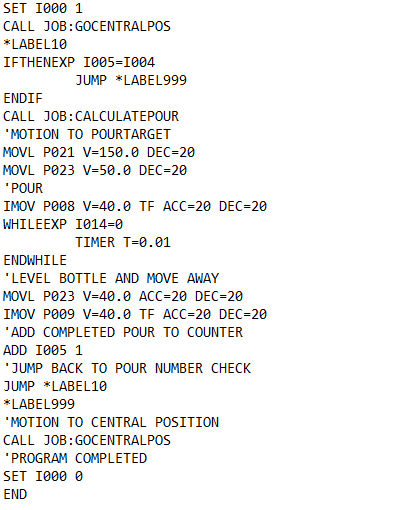
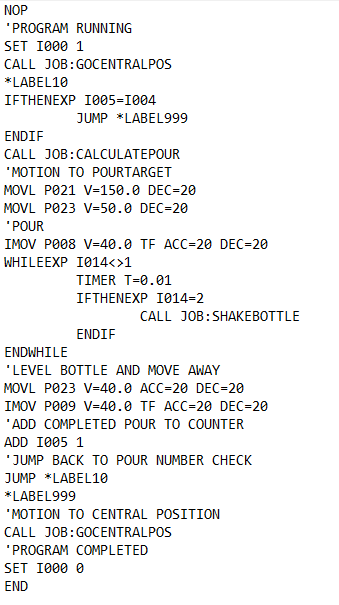
Muutettu backend ja raspikertomukset. Yritetty saada koodeja listingsillä ja verbatimilla. Shakebottlesta kirjoitettu ja kaatokuvaajat kunnossa.

Changed region(s): [[0.0, 0.0, 0.885, 1.0]]

diff --git a/tex/drinkkirobotti_5.0.tex b/tex/drinkkirobotti_5.0.tex
@@ -1,4 +1,4 @@
-Drinkkirobotti 5.0 on Pullonkaula ry:n, eli Tampereen yliopistossa toimivan tuotantotekniikan ammattiainekerhon opiskelijoiden vapaa-ajalla tekemä projekti. Robottisolu koostuu Yaskawan HC-10-monitoimirobotin "You Teach Me"\hyp{}solusta ja sen ympärille rakennetuista baaritiskeistä. You Teach Me on Yaskawan valmiiksi valmisteltu opetuskäyttöön tarkoitettu robottisolukokonaisuus \cite{Yaskawa2017}. Baaritiskeissä on sisäpuolella pullohyllyt, ja kun robotilta tilataan juomaa, se hakee oikeat pullot hyllystä ja valmistaa niistä monikomponenttijuomia kaatamalla juomaa lasiin. Baaritiskillä on neljä paikkaa lasille. Robotilta juomien tilaaminen tapahtuu tabletille tehdyn käyttöliittymän avulla. Yaskawan HC-10 on yhteistyörobotti, eli se sisältää voima-antureita ja näiden avulla ihmisen ja robotin välinen yhteistyö on helpottunut. \cite{Pullonkaula2020}
+Drinkkirobotti 5.0 on Pullonkaula ry:n, eli Tampereen yliopistossa toimivan tuotantotekniikan ammattiainekerhon opiskelijoiden vapaa-ajalla tekemä projekti. Robottisolu koostuu Yaskawan HC-10-monitoimirobotin "You Teach Me"\hyp{}solusta, ja sen ympärille rakennetuista baaritiskeistä. Drinkkirobottisolu näkyy kuvassa \ref{fig:drinkkirobotti}. You Teach Me on Yaskawan valmiiksi valmisteltu opetuskäyttöön tarkoitettu robottisolukokonaisuus \cite{Yaskawa2017}. Robottisolun  Baaritiskeissä on sisäpuolella pullohyllyt, ja kun robotilta tilataan juomaa, se hakee oikeat pullot hyllystä ja valmistaa niistä monikomponenttijuomia kaatamalla juomaa lasiin. Baaritiskin päällä on neljä mukipaikkaa, joihin robotti voi kaataa juomia.
 
 \begin{figure}[h]
 \begin{center}
@@ -8,11 +8,9 @@ Drinkkirobotti 5.0 on Pullonkaula ry:n, eli Tampereen yliopistossa toimivan tuot
 \label{fig:drinkkirobotti}
 \end{figure}
 
-Drinkkirobotin ohjelmisto koostuu useasta tasosta. Front end sisältää React.js:llä tehdyt käyttöliittymät operaattoria ja asiakasta varten. Operaattorinäkymästä voi esimerkiksi hallita robottisolun pullohyllyssä olevia pulloja lisäämällä tai poistamalla niitä ja valita robotin idle\hyp{}tilassa tekemiä liikkeitä. Asiakasnäkymästä voi selata tarjolla olevia juomia ja niiden sisältämiä komponentteja ja tilata juomia kerrallaan 1\hyp{}4 kappaletta. Back end toimii Node.js:llä ja se sisältää tiedon tarjolla olevista juomista ja niiden komponenteista sekä määristä. Siellä on myös reaaliaikainen tieto pullohyllyn tilanteesta, eli mitä pulloja hyllyssä on ja kuinka paljon juomaa missäkin pullossa on jäljellä. Kun operaattori lisää pullon, hän arvioi pullossa olevan juoman määrän ja merkitsee sen käyttöliittymään, joilloin juomamäärä välitetään back endille. Kun pullosta kaadetaan juomaa, back endiin päivittyy uusi tieto pullossa olevasta juomasta. Jos pullossa on liian vähän juomaa jäljellä minkään drinkin tekoon, robotti poistaa pullon hyllystä automaattisesti.
+\newpage
 
-Itse robottikoodi on suhteellisen yksinkertaista. Siinä käytetään Yaskawan Inform \hyp{}ohjelmointikieltä, ja robottia ohjaa Yaskawan YRC-1000 -ohjausyksikkö. Robottikoodi sisältää "jobeja", jotka sisältävät robotin liikeratoja ja niiden parametrien määrittelyjä ja joissakin väleissä lyhyitä odotusaikoja. Robottisolun aivoina voidaan pitää sen bisneslogiikkatasoa. C\# -kielellä kirjoitettua logiikkaa pyörittää robottisolun sisällä oleva Rasperry Pi -tietokone. Logiikka ohjaa robottia kertomalla, mikä funktio, eli "job" milloinkin suoritetaan. Se siis käsittelee front endiltä saadut tilaukset ja päättää esimerkiksi mikä pullo haetaan ja mihin lasiin juomaa kaadetaan. Rasperry Pi ohjaa logiikan lisäksi robotin tarttujaa. Tarttujaa voidaan ohjata robottikoodista siihen tarkoitetuilla jobeilla, jolloin robottikoodi kutsuu Rasperry Pi:tä.
-
-Uusimpana lisäyksenä robottisoluun on implementoitu vaaka, joka on niin sanotulla pullonvaihtopisteellä. Vaa'an toiminta on hyvä esimerkki robotti-bisneslogiikkarajapinnasta, sillä vaa'an voi kalibroida ja sen kullakin hetkellä näyttämää arvoa voi kysyä logiikan avulla. Tämän vaa'an avulla robotti tunnistaa, onko pullonvaihtopisteellä pulloa. Tätä käytetään esimerkiksi uuden pullon lisäämisessä: Kun robotti hakee uutta pulloa hyllyyn, niin se pysähtyy ensin pullonvaihtopisteen eteen. Jos vaaka kertoo, että pullonvaihtopiste on tyhjä, logiikka ei käske robottia hakemaan olematonta pulloa, vaan käskee sen odottamaan tietyn ajan. Robotti hakee pullon vasta, kun se lisätään pullonvaihtopisteelle. Tämän toiminnallisuuden avulla robotti ei siis vie olematonta pulloa hyllyyn, jolloin back endissä olisi tieto pullosta tietyllä kohdalla pullohyllyä, vaikka pulloa ei oikeasti ole. Samoin, jos robotti on poistamassa pulloa pullohyllystä, ei se vie sitä pullonvaihtopisteelle jos siellä on jo pullo. Näin robotti ei työnnä vanhaa pulloa vaihtopisteeltä alas, vaan odottaa että se poistetaan sieltä. Työn alla on myös ominaisuus, jossa logiikka kertoo back endille, miten paljon juomaa lisätyssä pullossa on, ja operaattorin tehtäväksi jää vain tarkistaa lukema, eikä itse arvioida lisättävässä pullossa olevaa juoman määrää.
+Robotilta juomien tilaaminen tapahtuu tabletille tehdyn käyttöliittymän avulla. Yaskawan HC-10 on yhteistyörobotti, eli se sisältää voima-antureita ja näiden avulla ihmisen ja robotin välinen yhteistyö on helpottunut. \cite{Pullonkaula2020}
 
 \begin{figure}[h]
 \begin{center}
@@ -22,4 +20,8 @@ Uusimpana lisäyksenä robottisoluun on implementoitu vaaka, joka on niin sanotu
 \label{fig:rakenne}
 \end{figure}
 
-Vaaka koostuu HX711-mittakortista ja siihen kytketystä 5kg painoanturista, ja näitä ohjaa arduino-kirjastoja apuna käyttäen ohjelmoitu NodeMCU V3. Kommunikaatio logiikkaan toimii wlan-yhteydellä lähetettävillä UDP-paketeilla. Vaakaa pystyy siis siirtämään, ja niinpä tätä samaa vaakaa käytetään juomankaatosysteemin takaisinkytkentään, josta kerrotaan kappaleessa 3.
+Drinkkirobotin ohjelmisto koostuu neljästä tasosta. Ohjelmistorakennetta on havainnollistettu kuvassa \ref{fig:rakenne}. Front end sisältää React.js:llä tehdyt käyttöliittymät operaattoria ja asiakasta varten. Operaattorinäkymästä voi esimerkiksi hallita robottisolun pullohyllyssä olevia pulloja lisäämällä tai poistamalla niitä ja valita robotin idle\hyp{}tilassa tekemiä liikkeitä. Asiakasnäkymästä voi selata tarjolla olevia juomia ja niiden sisältämiä komponentteja ja tilata juomia kerrallaan 1\hyp{}4 kappaletta. Back end toimii Node.js:llä ja se sisältää tiedon meneillään olevasta tapahtumasta missä juomia tarjoillaan ja siinä tapahtumassa tarjolla olevista juomista ja niiden komponenteista sekä määristä.
+
+Itse robottikoodi on suhteellisen yksinkertaista. Siinä käytetään Yaskawan Inform \hyp{}ohjelmointikieltä, ja robottia ohjaa Yaskawan YRC-1000 -ohjausyksikkö. Robottikoodi sisältää "jobeja", jotka sisältävät robotin liikeratoja ja niiden parametrien määrittelyjä ja joissakin väleissä lyhyitä odotusaikoja. Robottisolun aivoina voidaan pitää sen bisneslogiikkatasoa, joka on kirjoitettu C\#-kielellä. Logiikka ohjaa robottia kertomalla, mikä funktio, eli "job" milloinkin suoritetaan. Se siis käsittelee front endiltä saadut tilaukset ja päättää esimerkiksi mikä pullo haetaan ja mihin lasiin juomaa kaadetaan. Logiikassa on myös reaaliaikainen tieto pullohyllyn tilanteesta, eli mitä pulloja hyllyssä on ja kuinka paljon juomaa missäkin pullossa on jäljellä. Kun operaattori lisää pullon, hän arvioi pullossa olevan juoman määrän ja merkitsee sen käyttöliittymään, jolloin juomamäärä välitetään logiikkaan. Kun pullosta kaadetaan juomaa, päivittyy uusi tieto pullossa olevasta juomasta. Jos pullossa on liian vähän juomaa jäljellä minkään drinkin tekoon, robotti poistaa pullon hyllystä automaattisesti. Näiden lisäksi robotin sisällä on Rasperry Pi-tietokone, joka ohjaa robotin tarttujaa. Tarttujaa voidaan ohjata robottikoodista siihen tarkoitetuilla jobeilla, jolloin robottikoodi kutsuu Rasperry Pi:tä.
+
+Uusimpana lisäyksenä robottisoluun on implementoitu vaaka, joka on niin sanotulla pullonvaihtopisteellä. Vaa'an toiminta on hyvä esimerkki robotti-bisneslogiikkarajapinnasta, sillä vaa'an voi kalibroida ja sen kullakin hetkellä näyttämää arvoa voi kysyä logiikan avulla. Tämän vaa'an avulla robotti tunnistaa, onko pullonvaihtopisteellä pulloa. Tätä käytetään esimerkiksi uuden pullon lisäämisessä: Kun robotti hakee uutta pulloa hyllyyn, niin se pysähtyy ensin pullonvaihtopisteen eteen. Jos vaaka kertoo, että pullonvaihtopiste on tyhjä, logiikka ei käske robottia hakemaan olematonta pulloa, vaan käskee sen odottamaan tietyn ajan. Robotti hakee pullon vasta, kun se lisätään pullonvaihtopisteelle. Tämän toiminnallisuuden avulla robotti ei siis vie olematonta pulloa hyllyyn, jolloin back endissä olisi tieto pullosta tietyllä kohdalla pullohyllyä, vaikka pulloa ei oikeasti ole. Samoin, jos robotti on poistamassa pulloa pullohyllystä, ei se vie sitä pullonvaihtopisteelle jos siellä on jo pullo. Näin robotti ei työnnä vanhaa pulloa vaihtopisteeltä alas, vaan odottaa että se poistetaan sieltä. Työn alla on myös ominaisuus, jossa logiikka kertoo back endille, miten paljon juomaa lisätyssä pullossa on, ja operaattorin tehtäväksi jää vain tarkistaa lukema, eikä itse arvioida lisättävässä pullossa olevaa juoman määrää.

diff --git a/tex/uusi_kaato.tex b/tex/uusi_kaato.tex
@@ -1,18 +1,20 @@
-Tässä kappaleessa käsitellään uutta kaatosysteemiä, jonka avulla pyritään ratkaisemaan edellisessä kappaleessa käsiteltyjä ongelmia. Kaatosysteemin käsittely sisältää sekä logiikan että robottikoodin ja näiden kahden rajapinnan.
+Tässä kappaleessa käsitellään uutta kaatosysteemiä, jonka avulla pyritään ratkaisemaan kappaleessa \ref{ch:vanhan_ongelmat} käsiteltyjä ongelmia. Kaatosysteemin käsittely sisältää sekä logiikan että robottikoodin ja näiden kahden rajapinnan.
 
-Uudessa kaatosysteemissä käytetään ikään kuin takaisinkytkentänä vaakaa, jolloin saadaan tietoon mukissa oleva massa kaadon aikana. Tässä vaakana on käytetty kappaleessa \ref{ch:drinkkirobotti_5.0} esiteltyä pullonvaihtopisteellä käytettyä vaakaa, mutta mikä tahansa samalla toimintaperiaatteella toimiva painoanturi kävisi tähän tarkoitukseen. Vaa'an NodeMCU:lta voidaan pyytää painoanturin osoittamaa massaa tietyllä merkkijonolla. Vaaka voidaan myös taarata toisella siihen tarkoitetulla merkkijonolla. Robotin logiikkaan on tehty oma ScaleCommunication-taso, joka ottaa yhteyden vaakaan. Sen metodeilla getWeight() ja Tare() pystyy suoraan käyttämään vaakaa logiikasta.
+Uudessa kaatosysteemissä käytetään ikään kuin takaisinkytkentänä vaakaa, jolloin saadaan tietoon mukissa oleva massa kaadon aikana. Tässä vaakana on käytetty kappaleessa \ref{ch:drinkkirobotti_5.0} esiteltyä pullonvaihtopisteellä käytettyä vaakaa. Vaaka koostuu HX711-mittakortista ja siihen kytketystä 5kg painoanturista, ja näitä ohjaa arduino-kirjastoja apuna käyttäen ohjelmoitu NodeMCU V3. Kommunikaatio logiikkaan toimii wlan-yhteydellä lähetettävillä UDP-paketeilla. Vaakaa pystyy siis siirtämään langattomuuden ansiosta, ja niin se soveltuu hyvin myös juomamäärien mittaamiseen. Mikä tahansa samalla toimintaperiaatteella toimiva painoanturi kävisi tähän tarkoitukseen. Vaa'an NodeMCU:lta voidaan pyytää painoanturin osoittamaa massaa tietyllä merkkijonolla. Vaaka voidaan myös taarata toisella siihen tarkoitetulla merkkijonolla. Robotin logiikkaan on tehty oma ScaleCommunication-taso, joka ottaa yhteyden vaakaan. Sen metodeilla getWeight() ja Tare() pystyy suoraan käyttämään vaakaa logiikasta.
 
 % TODO Lisää tietoa LogicLayerin toiminnasta tähän tai kpl 2.1?
 
-Logiikkakerros kutsuu logiikan funktiota PourBottle, joka käsittelee kaatoa yksittäisestä pullosta. Nyt uutena logiikkaan on toteutettu funktio HandlePour. Tämä kutsuu vaakaa ja käskee robottia lopettamaan kaadon, kun vaa'an lukema on tarpeeksi suuri.
+Kun käyttöliittymästä tilataan juomaa, logiikka käsittelee tilauksen, käskyttää robottia hakemaan oikean pullon kaatamaan oikeisiin mukeihin. Logiikkakerros kutsuu logiikan funktiota PourBottle, joka käsittelee kaatoa yksittäisestä pullosta. Nyt uutena logiikkaan on toteutettu funktio HandlePour, joka on kuvattu alla ohjelmassa \ref{prog:HandlePour}. Tämä funktio pyytää vaa'alta massalukemia ja käskee robottia lopettamaan kaadon, kun lukema on tarpeeksi suuri.
 
-\begin{figure}[h]
-\begin{center}
-\includegraphics[scale=0.6]{img/HandlePour.png}
-\end{center}
-\caption{HandlePour-funktio}
-\label{fig:HandlePour}
-\end{figure}
+%begin{figure}[h]
+%\begin{center}
+%\includegraphics[scale=0.6]{img/HandlePour.png}
+%\end{center}
+%\caption{HandlePour-funktio}
+%\label{fig:HandlePour}
+%\end{figure}
+
+\newpage
 
 \lstset{style=sharpc}
 \lstinputlisting[label={prog:HandlePour}, caption={HandlePour-funktio}]{code/handlePour.cs}
@@ -27,12 +29,24 @@ HandlePour kutsuu ensin RobotCellLayerin funktiota StartPour. RobotCellLayer vas
 \label{fig:NEWPOUR}
 \end{figure}
 
-NEWPOUR-job on robotin liikkeiltään hyvin samantapainen kuin kappaleessa \ref{ch:vanha_kaato} esitetty POURDRINKS. Aluksi se määrittää kaadettavan mukin sijainnin CALCULATEPOUR-jobilla. Sitten robottia käsketään siirtymään kaatopisteelle ja robotti kallistaa pulloa aloittaen kaadon. Uutta on kuitenkin se, että robotti jää while-loopin ansiosta odottamaan, että muuttuja I014 on 0. I014 on nimetty robotissa nimellä ``pour ready signal''.
+NEWPOUR-job on robotin liikkeiltään hyvin samantapainen kuin kappaleessa \ref{ch:vanha_kaato} esitetty POURDRINKS. Aluksi se määrittää kaadon kohteena olevan mukin sijainnin CALCULATEPOUR\hyp{}jobilla. Sitten robottia käsketään siirtymään kaatopisteelle ja robotti kallistaa pulloa aloittaen kaadon. Uutta on kuitenkin se, että robotti jää while-silmukan ansiosta odottamaan, että muuttuja I014 on 0. I014 on nimetty robotissa nimellä ``pour ready signal''.
 
-HandlePour-funktio laskee halutun painon kertomalla halutun nesteen tilavuuden, joka on senttilitroina, kymmenellä, jolloin saadaan haluttu massa grammoina. Tästä vähennetään vielä vakio 27. Tämä vakio on määritetty testaamalla ja se kuvaa sitä viivettä, joka kestää siitä kun vaaka tunnistaa massan olevan sopiva, siihen kun nestettä ei enää tule ollenkaan mukiin.
+HandlePour-funktio laskee halutun massan kertomalla halutun nesteen tilavuuden, joka on senttilitroina, kymmenellä, jolloin saadaan haluttu massa grammoina. Tästä vähennetään vielä vakio 27. Tämä vakio on määritetty testaamalla ja se kuvaa sitä viivettä, joka kestää siitä kun vaaka tunnistaa massan olevan sopiva, siihen kun nestettä ei enää tule ollenkaan mukiin.
 
-Funktiossa on myös määritelty vakio maxTime, joka on 13 sekuntia. Tämä vakio on määritetty sen perusteella, että kappaleessa \ref{ch:vanha_kaato} esitellyn kaatoajan funktion mukaan saadaan 13 sekunnin kaadolla n. 25 senttilitraa juomaa. Drinkkirobotin tarjoilussa käyttämät lasit ovat tavallisesti hieman yli 25 senttilitraa tilavuudeltaan. Tätä maxTime-vakiota käytetään siihen, ettei mahdollisessa vaa'an virhetilanteessa juomaa kaadeta siten, että se läikkyisi lasista yli.
+Funktiossa on while-silmukka, joka odottaa joka iteraatiolla kymmenen millisekuntia, kysyy uutta vaa'an havaitsemaa massaa, ja sen jälkeen tarkistaa onko havaittu massa yhä pienempi kuin haluttu massa. Samalla silmukka tarkistaa, ettei kaato ole kestänyt yli maxTime-vakiossa määriteltyä aikaa. Kun while-silmukasta on tultu ulos, niin tulostetaan konsoliin tieto saavutetusta massasta tai mahdollisesti ajasta ja kutsutaan RobotCellLayerin funktiota StopPour.
 
-Fuktiossa on while-looppi, joka odottaa joka iteraatiolla kymmenen millisekuntia, kysyy uutta vaa'an havaitsemaa massaa, ja sen jälkeen tarkistaa onko havaittu massa yhä pienempi kuin haluttu massa. Samalla looppi tarkistaa, ettei kaato ole kestänyt yli maxTime-vakiossa määriteltyä aikaa. Kun while-loopista on tultu ulos, niin tulostetaan konsoliin tieto saavutetusta massasta tai mahdollisesti ajasta ja kutsutaan RobotCellLayerin funktiota StopPour.
+HandlePour-funktion while-silmukan sisällä oleva if-lause tarkastaa, onko kahden sekunnin kuluttua kaadon aloittamisesta mukiin tullut jo kymmenen grammaa juomaa. Jos näin ei ole, niin voidaan päätellä kaatonokan tukkeutuneen. Tällaisessa tilanteessa kaatoliike tehdään uudelleen. Kaatoliikkeen tekeminen uudelleen on toteutettu muuttamalla muuttuja I014 arvoon 2. Myös robotin NEWPOUR-jobissa on if-lause, joka tunnistaa I014:n muuttumisen ja kutsuu jobia SHAKEBOTTLE. SHAKEBOTTLE sisältää robotin liikkeet pullon suoristamiseksi ja uuden kaadon aloittamiseksi.
 
-StopPour-funktion tehtävänä on ainoastaan muuttaa robotin muuttuja I014, eli ``pour ready signal'' arvoon yksi. Tällöin robotin jobi tulee omasta while-loopistaan ulos, jolloin robotti suoristaa pullon ja näin lopettaa kaadon.
+Funktiossa on myös määritelty vakio maxTime, joka on 13 sekuntia. Tämä vakio on määritetty sen perusteella, että kappaleessa \ref{ch:vanha_kaato} esitellyn kaatoajan funktion mukaan saadaan 13 sekunnin kaadolla n. 25 senttilitraa juomaa. Drinkkirobotin tarjoilussa tavallisest käyttämät lasit ovat hieman yli 25 senttilitraa tilavuudeltaan. Tätä maxTime-vakiota käytetään siihen, ettei mahdollisessa vaa'an virhetilanteessa juomaa kaadeta siten, että se läikkyisi lasista yli.
+
+StopPour-funktion tehtävänä on ainoastaan muuttaa robotin muuttuja I014, eli ``pour ready signal'' arvoon yksi. Tällöin robotin jobi tulee omasta while-silmukastaan ulos, jolloin robotti suoristaa pullon ja näin lopettaa kaadon.
+
+\begin{figure}[!h]
+\begin{center}
+\includegraphics[scale=0.4]{img/Sequence_shakebottle.png}   %0.6 scale
+\end{center}
+\caption{Sekvenssikaavio uudesta kaatosysteemistä}
+\label{fig:Sequence}
+\end{figure}
+
+Yllä olevassa sekvenssikaaviossa on havainnollistettu UML-kielellä uuden kaatosysteemin toimintaa.

diff --git a/tex/uuden_analysointi.tex b/tex/uuden_analysointi.tex
@@ -1,22 +1,14 @@
-Alla olevassa sekvenssikaaviossa on havainnollistettu UML-kielellä uuden kaatosysteemin toimintaa.
-
-\begin{figure}[h]
-\begin{center}
-\includegraphics[scale=0.6]{img/Sequence.png}
-\end{center}
-\caption{Sekvenssikaavio uudesta kaatosysteemistä}
-\label{fig:Sequence}
-\end{figure}
-
 Logiikka laskee halutun juoman massan kaavalla
 \begin{align}
     \mathrm{pourWeight} = \mathrm{pourAmount} \cdot 10 - 27 \mathrm{,}
 \end{align}
-eli halutusta massasta vähennetään vaa'an hitautta kuvaava vakio 27. Hitaus johtuu muun muassa tietoliikenneyhteyden hitaudesta ja looppien sisällä olevista odotusajoista. Esimerkiksi robotin jobissa olevaa timeria tai logiikassa olevaa sleepiä nostamalla tuo vakio 27 kasvaisi. Tämä hitaus tarkoittaa sitä, että pullon suoristusliikkeen aikana tapahtuviin muuttujiin ei pystytä enää vaa'an avulla vaikuttamaan. Tämä on kuitenkin vain pieni osa koko kaatoliikettä.
+eli halutusta massasta vähennetään vaa'an hitautta kuvaava vakio 27. Hitaus johtuu muun muassa tietoliikenneyhteyden hitaudesta ja silmukoiden sisällä olevista odotusajoista. Esimerkiksi robotin jobissa olevan timer-komennon tai logiikassa olevan sleep-komennon arvoa nostamalla tuo vakio 27 kasvaisi. Tämä hitaus tarkoittaa sitä, että pullon suoristusliikkeen aikana tapahtuviin muuttujiin ei pystytä enää vaa'an avulla vaikuttamaan. Käytännössä siis 27 grammaa juomaa kaatuu vielä sen jälkeen, kun logiikka havaitsee juomaa olevan tarpeeksi. Tämä on kuitenkin vain pieni osa koko kaatoliikettä. Esimerkiksi kaatonokan vaihtaminen sellaiseen kaatonokkaan, jossa virtausnopeus on eri, aiheuttaa sen, että tuo vakio muuttuu hieman.
 
 Painoanturin tarkkuutta testattiin vertailemalla vaa'an antamia tuloksia tavallisen keittiövaa'an näyttämän painon kanssa. Kaikissa tapauksissa painoanturin ja keittiövaa'an tulos erosi maksimissaan yhdellä grammalla toisistaan. Vaa'an osoittamiin lukemiin saattaa tulla pieni impulssin aiheuttama piikki kaadon alussa, kun juomavirta ensimmäisenä osuu lasiin.
 
-HandlePour-funktio taaraa vaa'an ennen jokaista kaatoa. Tämän ansiosta useamman komponentin juomasekoituksia on mahdollista kaataa tällä systeemillä. Funktiossa oleva currentWeight on siis mukiin tullut paino sen jälkeen, kun kyseisen komponentin kaato on aloitettu. Taaraus mahdollistaa myös mukitelineen pitämisen vaa'an päällä ilman että sen massaa erikseen vähennetään saadusta painosta. Mukiteline auttaa siihen, ettei muki liikahda juomavirran vaikutuksesta. Samoin voitaisiin myös käyttää erilaisia, eri painoisia mukeja ilman että se vaikuttaa kaatoihin.
+HandlePour-funktio taaraa vaa'an ennen jokaista kaatoa. Tämän ansiosta useamman komponentin juomasekoituksia on mahdollista kaataa tällä systeemillä. Funktiossa oleva currentWeight on siis mukiin tullut paino sen jälkeen, kun kyseisen komponentin kaato on aloitettu. Taaraus mahdollistaa myös mukitelineen pitämisen vaa'an päällä ilman että sen massaa erikseen vähennetään saadusta painosta. Mukiteline auttaa siihen, ettei muki liikahda juomavirran vaikutuksesta. Samoin voitaisiin myös käyttää erilaisia, eri painoisia mukeja ilman että se vaikuttaa kaatoihin. Kuvassa \ref{fig:kaato} näkyy robotti kaatamassa vaa'an päällä olevaan mukiin, joka on mukitelineessä.
+
+\newpage
 
 \begin{figure}[h]
 \begin{center}

diff --git a/main.tex b/main.tex
@@ -51,7 +51,7 @@
 %programs - if you wish to display code snippets
 % Example: \documentclass[english, authoryear]{tauthesis}
 %          thesis in English with author-year citations
-\documentclass[finnish, numeric, draft]{tauthesis}  % draft -> kuvat ei lataudu
+\documentclass[finnish, numeric]{tauthesis}  % draft -> kuvat ei lataudu
 
 % The glossaries package throws a warning:
 % No language module detected for 'Finnish'.
@@ -189,7 +189,7 @@
 % the primary and the secondary languages
 % of the thesis.
 \facultyname{Tekniikan ja luonnontieteiden tiedekunta}{Faculty of Engineering and Natural Sciences}
-\programmename{Teknisten tieteiden kandidaattiohjelma}{Bachelor's Programme in Engineering Sciences}
+\programmename{Teknisten tieteiden kandidaatin tutkinto-ohjelma}{Bachelor's Programme in Engineering Sciences}
 
 % The keywords to the thesis in the primary
 % and the secondary languages of the thesis.
@@ -261,14 +261,18 @@
 \label{ch:vanhan_ongelmat}
 \input{tex/vanhan_ongelmat.tex}
 
+\section{Mahdollisten ratkaisujen kartoitus}
+\label{ch:muut_ratkaisut}
+\input{tex/muut_ratkaisut.tex}
+
 \chapter{Ratkaisu}
 \label{ch:ratkaisu}
 
-\section{Uusi kaatosysteemi}
+\section{Uusi kaatoratkaisu}
 \label{ch:uusi_kaato}
 \input{tex/uusi_kaato.tex}
 
-\section{Uuden kaatosysteemin analysointi}
+\section{Uuden kaatoratkaisun analysointi}
 \label{ch:uuden_analysointi}
 \input{tex/uuden_analysointi.tex}
 
@@ -278,11 +282,6 @@
 \section{Vanhan ja uuden kaatoratkaisun vertailu}
 \label{ch:vanhan_ja_uuden_vertailu}
 \input{tex/vertailu.tex}
-
-\section{Muita mahdollisia ratkaisuja}
-\label{ch:muut_ratkaisut}
-\input{tex/muut_ratkaisut.tex}
-
 
 \chapter{Yhteenveto}
 \label{ch:yhteenveto}

diff --git a/code/POURDRINKS.tex b/code/POURDRINKS.tex
@@ -1,0 +1,39 @@
+\begin{verbatim}
+    NOP
+    'PROGRAM RUNNING
+    SET I000 1
+    'CALCULATE POUR PARAMETERS
+    IFTHENEXP I003>3
+         SET I011 I003
+         MUL I011 60
+         SUB I011 171
+    ELSE
+         SET I011 1
+    ENDIF
+    CALL JOB:GOCENTRALPOS
+    SET I005 0
+    *LABEL10
+    IFTHENEXP I005=I004
+         JUMP *LABEL999
+    ENDIF
+    CALL JOB:CALCULATEPOUR
+    'MOTION TO POURTARGET
+    MOVL P021 V=150.0 DEC=20
+    MOVL P023 V=50.0 DEC=20
+    'POUR
+    IMOV P008 V=40.0 TF ACC=20 DEC=20
+    TIMER T=I011
+    'LEVEL BOTTLE AND MOVE AWAY
+    MOVL P023 V=40.0 ACC=20 DEC=20
+    IMOV P009 V=40.0 TF ACC=20 DEC=20
+    'ADD COMPLETED POUR TO COUNTER
+    ADD I005 1
+    'JUMP BACK TO POUR NUMBER CHECK
+    JUMP *LABEL10
+    *LABEL999
+    'MOTION TO CENTRAL POSITION
+    CALL JOB:GOCENTRALPOS
+    'PROGRAM COMPLETED
+    SET I000 0
+    END
+\end{verbatim}

diff --git a/tex/vertailu.tex b/tex/vertailu.tex
@@ -2,7 +2,7 @@ Työssä tutkittiin sekä vanhan että uuden kaatoratkaisun pohjalta saatuja tul
 
 \begin{figure}[h]
 \begin{center}
-\includegraphics[scale=0.75]{img/kaadot_vanha_kesken.png}
+\includegraphics[scale=0.75]{img/kaadot_vanha.png}
 \end{center}
 \caption{Vanhalla kaatoratkaisulla saadut tulokset}
 \label{fig:kaadot_vanha}
@@ -16,7 +16,7 @@ Sen lisäksi, että saadut juomamäärät vaihtelevat keskenään paljon ja pull
 
 \begin{figure}[h]
 \begin{center}
-\includegraphics[scale=0.75]{img/kaadot_uusi_kesken.png}
+\includegraphics[scale=0.75]{img/kaadot_uusi.png}
 \end{center}
 \caption{Uudella kaatoratkaisulla saadut tulokset}
 \label{fig:kaadot_uusi}

diff --git a/tex/vanha_kaato.tex b/tex/vanha_kaato.tex
@@ -8,13 +8,7 @@ Tässä kappaleessa käsitellään useamman vuoden käytössä ollutta ratkaisua
 \label{fig:pourdrinks}
 \end{figure}
 
-\begin{verbatim}
-IFTHENEXP I003>3
-   SET I011 I003
-   MUL I011 60
-   SUB I011 171
-ELSE
-\end{verbatim}
+%\input{code/POURDRINKS.tex}
 
 Kaadon tarkkuutta tarkastellessa merkittävä osa jobissa on ensimmäinen if-else-haara, joka käsittelee kaadossa käytetylle ajastimelle annetun arvon laskentaa.
 

diff --git a/tex/muut_ratkaisut.tex b/tex/muut_ratkaisut.tex
@@ -1,1 +1,1 @@
-Tässä työssä käytetyssä ratkaisussa on asetettu vaaka mukin alle. Muunkinlaisia ratkaisuja tarkemman juomamäärän saamiseksi olisi varmasti mahdollista kehittää, ja niitä tarkastellaan lyhyesti tässä kappaleessa.
+Tässä kappaleessa kartoitetaan mahdollisia ratkaisuja kappaleessa \ref{ch:vanhan_ongelmat} esitetyille ongelmille, valitaan työssä käytetty ratkaisu ja perustellaan sen valinta.
